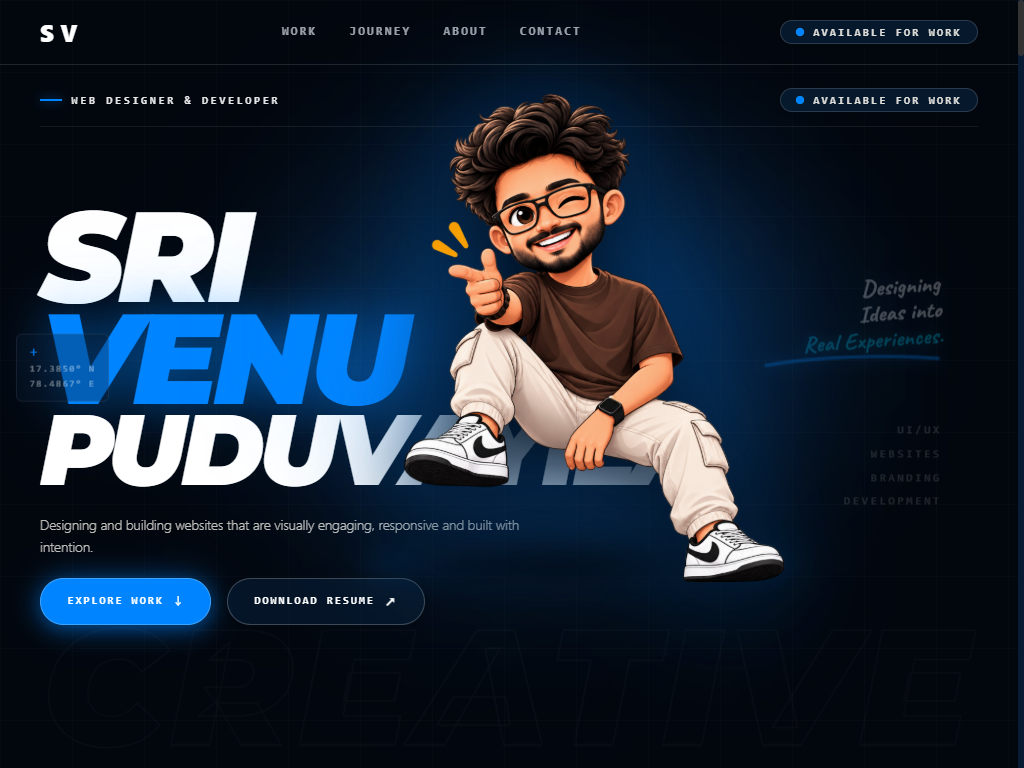
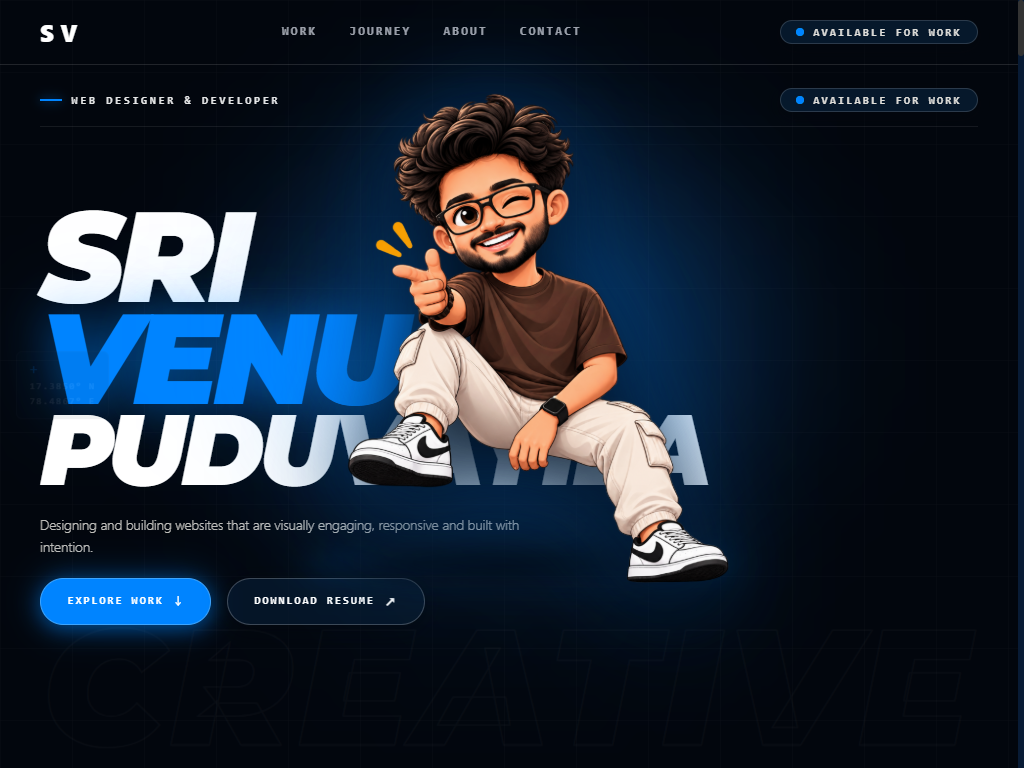
Describe the update

diff --git a/styles/portfolio-animations.css b/styles/portfolio-animations.css
@@ -1438,7 +1438,7 @@ div[id] {
 @media (min-width: 1024px) {
   .hero-master-character-wrap {
     position: absolute;
-    left: 29.5%;
+    left: 23.5%;
     top: -50px;
     margin: 0;
     width: clamp(520px, 46vw, 760px);
@@ -1450,7 +1450,7 @@ div[id] {
 
 @media (min-width: 1440px) {
   .hero-master-character-wrap {
-    left: 28.5%;
+    left: 23%;
     top: -65px;
     width: clamp(580px, 48vw, 840px);
     max-width: 880px;
@@ -1459,7 +1459,7 @@ div[id] {
 
 @media (min-width: 1600px) {
   .hero-master-character-wrap {
-    left: 29%;
+    left: 23.5%;
     top: -75px;
     width: clamp(620px, 50vw, 920px);
     max-width: 950px;
